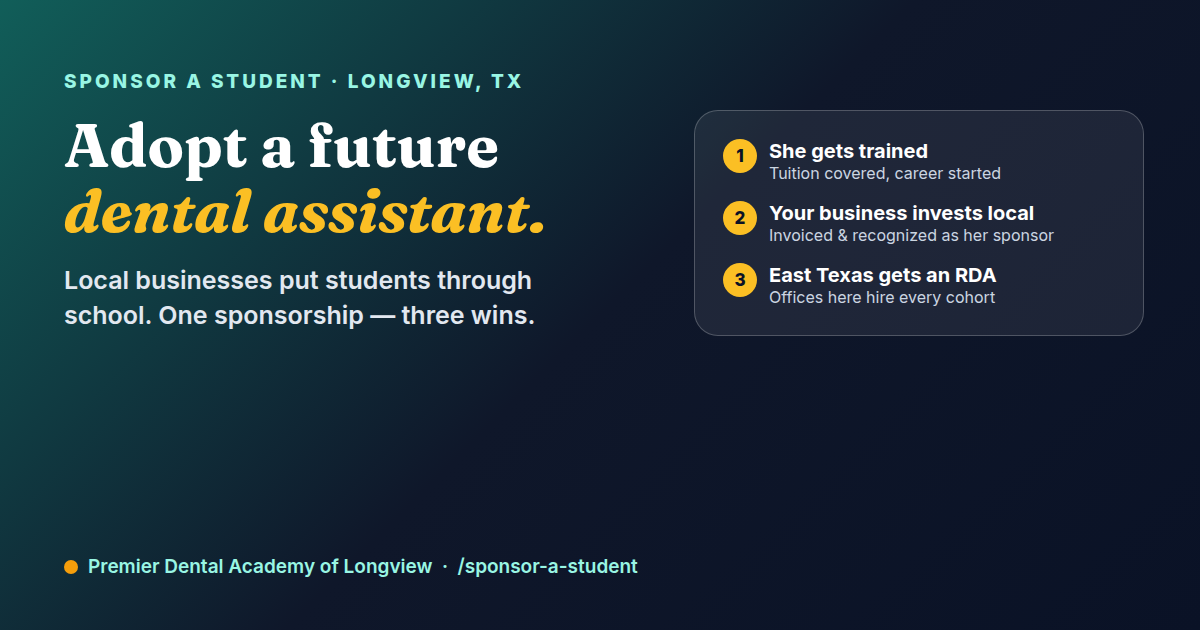
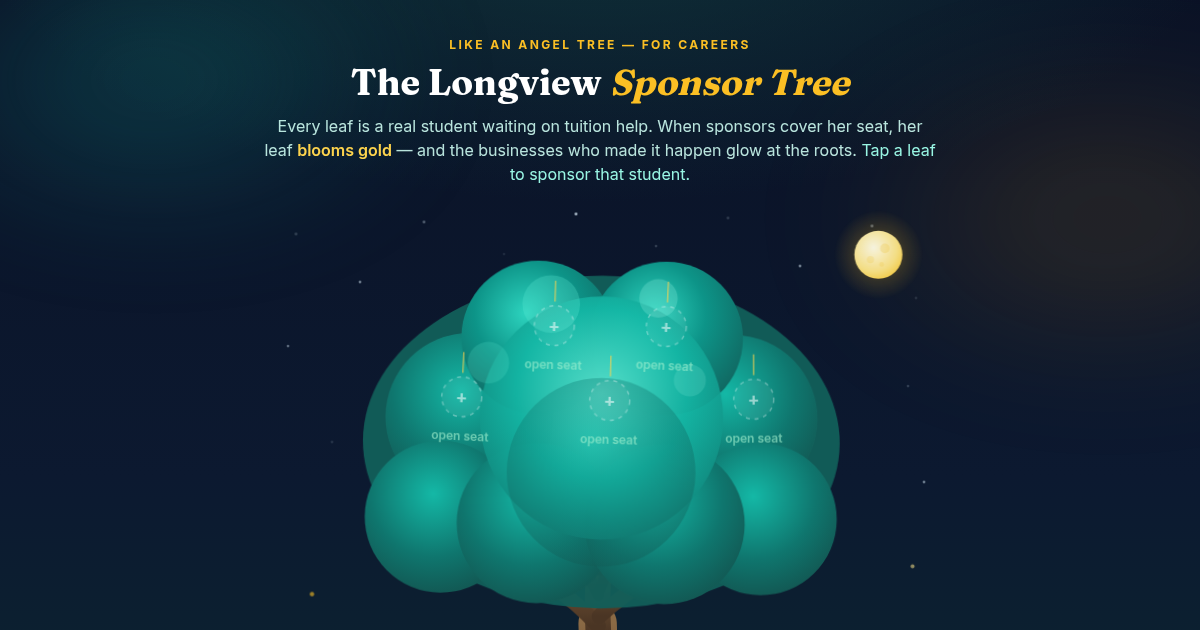
Sponsor Tree wow-pass: leaf pop-cards, ambience, lantern string, tree OG image
- Tap a leaf: sparkle burst + pop-card with her story, live progress bar,
  and a Sponsor-her button; cards place below top-row leaves so they never
  slide under the sticky nav, and clamp inside the stage on small screens.
- Scene ambience: aurora wisps, shooting stars, moon halo, grass tufts and
  ember lights at the roots, gold petals drifting off sponsored blooms.
- Businesses now dangle as glowing lanterns from a lit string (swipeable
  when there are many); dangle animates the chip, not the scroll item, to
  avoid compositing glitches.
- Stats chips count up when scrolled into view; confetti burst fires when
  an online sponsorship completes.
- OG share image replaced with a real 1200x630 render of the tree's empty
  state (open seats only - no fabricated data), so every Facebook/text
  share shows the tree itself.
- All motion respects prefers-reduced-motion.

diff --git a/sponsor-a-student.html b/sponsor-a-student.html
@@ -55,8 +55,54 @@ tailwind.config = { theme: { extend: {
   .lantern-glow{animation:pulseGlow 4s ease-in-out infinite}
   .amt-btn.active{background:#f59e0b;color:#fff;border-color:#f59e0b}
   #card-container{min-height:44px}
+
+  /* aurora wisps behind the tree */
+  .night{position:relative}
+  .night>*:not(.aurora){position:relative;z-index:1}
+  .aurora{position:absolute;z-index:0;border-radius:9999px;filter:blur(70px);pointer-events:none;will-change:transform}
+  .aurora.a1{width:560px;height:280px;left:-130px;top:-50px;opacity:.32;
+    background:radial-gradient(closest-side,#14b8a6,transparent);animation:auroraDrift 19s ease-in-out infinite alternate}
+  .aurora.a2{width:520px;height:250px;right:-110px;top:80px;opacity:.2;
+    background:radial-gradient(closest-side,#f59e0b,transparent);animation:auroraDrift 24s ease-in-out infinite alternate-reverse}
+  @keyframes auroraDrift{0%{transform:translate(0,0) scale(1)}100%{transform:translate(60px,26px) scale(1.12)}}
+
+  /* shooting stars */
+  .shoot{opacity:0;animation:shoot 9s linear infinite}
+  .shoot.sh2{animation-delay:4.7s;animation-duration:12s}
+  @keyframes shoot{0%,5%{opacity:0;transform:translate(0,0)}6.5%{opacity:1}12%{opacity:0;transform:translate(-360px,160px)}100%{opacity:0;transform:translate(-360px,160px)}}
+
+  /* gold petals drifting off sponsored blooms */
+  .petal{transform-box:fill-box;transform-origin:center;animation:petalFall 6.5s ease-in infinite}
+  @keyframes petalFall{0%{opacity:0;transform:translate(0,0) rotate(0deg)}10%{opacity:.9}100%{opacity:0;transform:translate(-26px,140px) rotate(140deg)}}
+
+  /* sparkle burst on leaf tap */
+  .sparkle{transition:transform .55s cubic-bezier(.2,.7,.3,1),opacity .55s ease-out}
+
+  /* leaf pop-card */
+  #leaf-tip{position:absolute;z-index:30;width:min(260px,72vw);transform:translate(-50%,-100%);
+    background:rgba(10,18,38,.92);border:1px solid rgba(251,191,36,.5);border-radius:16px;
+    box-shadow:0 12px 40px rgba(0,0,0,.5),0 0 30px rgba(251,191,36,.12);backdrop-filter:blur(6px)}
+  #leaf-tip::after{content:"";position:absolute;left:50%;bottom:-8px;width:14px;height:14px;transform:translateX(-50%) rotate(45deg);
+    background:rgba(10,18,38,.92);border-right:1px solid rgba(251,191,36,.5);border-bottom:1px solid rgba(251,191,36,.5)}
+  #leaf-tip.tip-below{transform:translate(-50%,0)}
+  #leaf-tip.tip-below::after{bottom:auto;top:-8px;transform:translateX(-50%) rotate(225deg)}
+  .lantern-string::-webkit-scrollbar{display:none}
+
+  /* businesses hang from a glowing string */
+  .lantern-string{position:relative;display:flex;gap:1rem;overflow-x:auto;padding:12px 8px 10px;justify-content:safe center;scrollbar-width:none}
+  .lantern-string::before{content:"";position:absolute;top:8px;left:0;right:0;height:2px;border-radius:2px;
+    background:linear-gradient(90deg,transparent,rgba(251,191,36,.55) 15%,rgba(251,191,36,.55) 85%,transparent)}
+  .lantern-item{position:relative;flex:0 0 auto;margin-top:16px}
+  .lantern-item::before{content:"";position:absolute;top:-15px;left:50%;width:2px;height:15px;background:rgba(251,191,36,.5)}
+  .lantern-item>.lantern{transform-origin:top center;
+    animation:dangle 6s ease-in-out infinite, pulseGlow 4s ease-in-out infinite;animation-delay:inherit}
+
+  /* confetti on a completed sponsorship */
+  .confetti{position:fixed;top:-14px;z-index:100;pointer-events:none;border-radius:2px;animation:confettiFall linear forwards}
+  @keyframes confettiFall{to{transform:translateY(112vh) rotate(760deg)}}
+
   @media (prefers-reduced-motion: reduce){
-    .star,.orn-anim,#canopy,.ff,.glow-pulse,.lantern-glow{animation:none !important}
+    .star,.orn-anim,#canopy,.ff,.glow-pulse,.lantern-glow,.aurora,.shoot,.petal,.lantern-item,.lantern-item>.lantern,.confetti{animation:none !important}
   }
 </style>
 <script src="https://cdn.jsdelivr.net/npm/@supabase/supabase-js@2"></script>
@@ -88,6 +134,8 @@ tailwind.config = { theme: { extend: {
   <!-- ══════════════════════ THE SPONSOR TREE ══════════════════════ -->
   <section id="tree" class="scroll-mt-6" aria-labelledby="tree-h">
     <div class="night rounded-3xl overflow-hidden shadow-2xl ring-1 ring-teal-800/40">
+      <div class="aurora a1" aria-hidden="true"></div>
+      <div class="aurora a2" aria-hidden="true"></div>
       <div class="pt-10 sm:pt-12 px-4 text-center">
         <p class="text-[12px] uppercase tracking-[0.2em] text-amber-400 font-bold">Like an angel tree — for careers</p>
         <h2 id="tree-h" class="display text-3xl sm:text-4xl font-bold text-white mt-2">The Longview <span class="text-amber-400 italic">Sponsor Tree</span></h2>
@@ -98,7 +146,8 @@ tailwind.config = { theme: { extend: {
       <div id="tree-stats" class="hidden flex-wrap justify-center gap-2.5 sm:gap-3 mt-6 px-4"></div>
 
       <!-- The tree -->
-      <div class="max-w-3xl mx-auto px-2 sm:px-6 -mt-2">
+      <div id="tree-stage" class="max-w-3xl mx-auto px-2 sm:px-6 -mt-2 relative">
+        <div id="leaf-tip" class="hidden p-4 text-left" role="dialog" aria-label="Student details"></div>
         <svg id="tree-svg" viewBox="0 0 900 770" role="img" aria-label="The Longview Sponsor Tree — each ornament is a student waiting for a sponsor; gold blooms are fully sponsored students" class="w-full h-auto select-none">
           <defs>
             <radialGradient id="g-canopy-a" cx="42%" cy="34%" r="75%">
@@ -140,6 +189,16 @@ tailwind.config = { theme: { extend: {
             <circle class="star s2" cx="60"  cy="210" r="1.2"/><circle class="star s3" cx="835" cy="260" r="1.2"/>
             <circle class="star"    cx="115" cy="330" r="1.4"/><circle class="star s2" cx="855" cy="380" r="1.3"/>
           </g>
+          <!-- shooting stars -->
+          <g transform="translate(760,52)"><g class="shoot">
+            <line x1="6" y1="-3" x2="82" y2="-36" stroke="#e0f2fe" stroke-width="2" stroke-linecap="round" opacity=".7"/>
+            <circle r="2.6" fill="#ffffff"/>
+          </g></g>
+          <g transform="translate(420,36)"><g class="shoot sh2">
+            <line x1="6" y1="-3" x2="70" y2="-30" stroke="#e0f2fe" stroke-width="1.8" stroke-linecap="round" opacity=".6"/>
+            <circle r="2.2" fill="#ffffff"/>
+          </g></g>
+
           <!-- moon with halo -->
           <circle cx="798" cy="96" r="56" fill="url(#g-glow)" opacity=".5"/>
           <circle cx="798" cy="96" r="30" fill="url(#g-moon)" opacity=".95"/>
@@ -164,6 +223,20 @@ tailwind.config = { theme: { extend: {
             <path d="M589,465 C612,456 630,449 650,443" stroke-width="11"/>
           </g>
           <path d="M408,726 C424,704 476,704 492,726 Z" fill="#4a3524"/>
+
+          <!-- grass tufts + ember lights at the roots -->
+          <g stroke="#166534" stroke-width="3.5" stroke-linecap="round" fill="none" opacity=".85">
+            <path d="M148,714 C150,702 148,695 143,688"/><path d="M156,715 C158,704 159,697 163,691"/>
+            <path d="M262,720 C263,709 261,702 256,696"/><path d="M270,721 C272,711 274,705 278,699"/>
+            <path d="M622,721 C623,710 621,703 616,697"/><path d="M630,722 C632,712 634,706 638,700"/>
+            <path d="M742,714 C744,703 742,696 737,690"/><path d="M750,715 C752,705 754,699 758,693"/>
+            <path d="M368,724 C369,714 367,708 363,703"/><path d="M540,724 C541,714 543,708 547,703"/>
+          </g>
+          <g fill="#fbbf24">
+            <circle class="star"    cx="176" cy="708" r="2.6"/><circle class="star s2" cx="292" cy="714" r="2.2"/>
+            <circle class="star s3" cx="600" cy="715" r="2.6"/><circle class="star"    cx="726" cy="708" r="2.2"/>
+            <circle class="star s2" cx="392" cy="719" r="2"/><circle class="star s3" cx="516" cy="719" r="2"/>
+          </g>
 
           <!-- canopy: one unified silhouette, then depth clusters -->
           <g id="canopy">
@@ -717,19 +790,25 @@ tailwind.config = { theme: { extend: {
           grp.appendChild(sub2);
         }
 
-        (function (prof, isSponsored) {
-          function go() {
+        (function (prof, isSponsored, px, py) {
+          function go(ev) {
+            if (ev) ev.stopPropagation();
             track('sponsor_leaf_click', { student: firstName(prof.display_name) });
-            if (isSponsored) {
-              var card = document.querySelector('[data-profile-card="' + prof.id + '"]');
-              (card || document.getElementById('students-waiting')).scrollIntoView({ behavior: 'smooth', block: 'center' });
-            } else {
-              selectStudent(prof.id);
-            }
+            sparkleBurst(px, py);
+            showLeafTip(prof, isSponsored, px, py);
           }
           grp.addEventListener('click', go);
-          grp.addEventListener('keydown', function (ev) { if (ev.key === 'Enter' || ev.key === ' ') { ev.preventDefault(); go(); } });
-        })(p, sponsored);
+          grp.addEventListener('keydown', function (ev) { if (ev.key === 'Enter' || ev.key === ' ') { ev.preventDefault(); go(ev); } });
+        })(p, sponsored, pos[0], pos[1]);
+
+        // Sponsored blooms shed slow gold petals.
+        if (sponsored) {
+          for (var pi = 0; pi < 3; pi++) {
+            var petal = svgEl('ellipse', { cx: (pi - 1) * 9, cy: 16, rx: 4.5, ry: 3, fill: '#fbbf24', 'class': 'petal' });
+            petal.style.animationDelay = (pi * 2.1 + (i % 3)) + 's';
+            anim.appendChild(petal);
+          }
+        }
 
         anim.appendChild(grp);
       } else {
@@ -755,33 +834,148 @@ tailwind.config = { theme: { extend: {
     }
   }
 
+  // Stats chips count up from zero the first time they scroll into view.
   function renderStats(stats) {
     var host = document.getElementById('tree-stats');
     if (!host || !stats) return;
     var chips = [];
-    if (stats.raised_cents > 0) chips.push(['💛', money(stats.raised_cents), 'raised for tuition']);
-    if (stats.sponsored > 0) chips.push(['🌟', stats.sponsored, stats.sponsored === 1 ? 'student sponsored' : 'students sponsored']);
-    if (stats.waiting > 0) chips.push(['🌱', stats.waiting, stats.waiting === 1 ? 'student waiting' : 'students waiting']);
-    if (stats.sponsor_count > 0) chips.push(['🏮', stats.sponsor_count, stats.sponsor_count === 1 ? 'sponsor' : 'sponsors']);
+    if (stats.raised_cents > 0) chips.push(['💛', Math.round(stats.raised_cents / 100), '$', 'raised for tuition']);
+    if (stats.sponsored > 0) chips.push(['🌟', stats.sponsored, '', stats.sponsored === 1 ? 'student sponsored' : 'students sponsored']);
+    if (stats.waiting > 0) chips.push(['🌱', stats.waiting, '', stats.waiting === 1 ? 'student waiting' : 'students waiting']);
+    if (stats.sponsor_count > 0) chips.push(['🏮', stats.sponsor_count, '', stats.sponsor_count === 1 ? 'sponsor' : 'sponsors']);
     if (!chips.length) return;
     host.innerHTML = chips.map(function (c) {
       return '<div class="bg-white/10 border border-white/15 rounded-full px-4 py-2 text-sm text-white font-semibold backdrop-blur-sm">'
-        + c[0] + ' <span class="text-amber-300 font-extrabold">' + esc(c[1]) + '</span> <span class="text-teal-100 font-medium">' + esc(c[2]) + '</span></div>';
+        + c[0] + ' <span class="text-amber-300 font-extrabold stat-num" data-n="' + c[1] + '" data-p="' + c[2] + '">' + esc(c[2] + Number(c[1]).toLocaleString('en-US')) + '</span> <span class="text-teal-100 font-medium">' + esc(c[3]) + '</span></div>';
     }).join('');
     host.classList.remove('hidden');
     host.classList.add('flex');
+    try {
+      if (window.matchMedia('(prefers-reduced-motion: reduce)').matches) return;
+      var io = new IntersectionObserver(function (entries) {
+        if (!entries.some(function (en) { return en.isIntersecting; })) return;
+        io.disconnect();
+        host.querySelectorAll('.stat-num').forEach(function (el) {
+          var target = parseInt(el.getAttribute('data-n'), 10) || 0;
+          var prefix = el.getAttribute('data-p') || '';
+          var t0 = performance.now();
+          (function tick(t) {
+            var k = Math.min(1, (t - t0) / 1200);
+            k = 1 - Math.pow(1 - k, 3); // ease-out
+            el.textContent = prefix + Math.round(target * k).toLocaleString('en-US');
+            if (k < 1) requestAnimationFrame(tick);
+          })(t0);
+        });
+      }, { threshold: 0.4 });
+      io.observe(host);
+    } catch (e) {}
   }
 
+  // Businesses hang as lanterns from a glowing string.
   function renderLanterns(rows) {
     var host = document.getElementById('lantern-row');
     var empty = document.getElementById('lantern-empty');
     if (!host || !rows || !rows.length) return;
-    host.innerHTML = rows.slice(0, 24).map(function (r) {
-      return '<div class="lantern lantern-glow rounded-xl px-4 py-2 text-amber-200 text-sm font-bold">🏮 ' + esc(r.recognition_name) + '</div>';
+    host.className = 'lantern-string mt-3';
+    host.innerHTML = rows.slice(0, 24).map(function (r, i) {
+      return '<div class="lantern-item" style="animation-delay:' + ((i % 5) * 0.9) + 's">'
+        + '<div class="lantern lantern-glow rounded-xl px-4 py-2 text-amber-200 text-sm font-bold whitespace-nowrap">🏮 ' + esc(r.recognition_name) + '</div>'
+        + '</div>';
     }).join('');
     host.classList.remove('hidden');
-    host.classList.add('flex');
     if (empty) empty.textContent = 'These businesses put real neighbors through school. Yours belongs up here too.';
+  }
+
+  // ── Leaf pop-card + sparkle burst ──
+  function stagePoint(x, y) {
+    // viewBox coords → pixel offsets inside #tree-stage
+    var svg = document.getElementById('tree-svg');
+    var stage = document.getElementById('tree-stage');
+    var sr = svg.getBoundingClientRect(), tr = stage.getBoundingClientRect();
+    return {
+      left: (sr.left - tr.left) + (x / 900) * sr.width,
+      top: (sr.top - tr.top) + (y / 770) * sr.height,
+    };
+  }
+
+  function sparkleBurst(x, y) {
+    try {
+      if (window.matchMedia('(prefers-reduced-motion: reduce)').matches) return;
+      var orn = document.getElementById('ornaments');
+      for (var k = 0; k < 8; k++) {
+        var s = svgEl('circle', { cx: x, cy: y, r: 3, fill: k % 2 ? '#fde68a' : '#5eead4', 'class': 'sparkle', opacity: 1 });
+        orn.appendChild(s);
+        (function (el, ang) {
+          requestAnimationFrame(function () {
+            requestAnimationFrame(function () {
+              el.style.transform = 'translate(' + Math.cos(ang) * 52 + 'px,' + Math.sin(ang) * 52 + 'px)';
+              el.style.opacity = '0';
+            });
+          });
+          setTimeout(function () { el.remove(); }, 650);
+        })(s, (Math.PI * 2 * k) / 8 + 0.4);
+      }
+    } catch (e) {}
+  }
+
+  function showLeafTip(prof, isSponsored, x, y) {
+    var tip = document.getElementById('leaf-tip');
+    if (!tip) return;
+    var pct = prof.goal_cents > 0 ? Math.min(100, Math.round((prof.raised_cents / prof.goal_cents) * 100)) : 0;
+    tip.innerHTML =
+      '<div class="flex items-center gap-2">'
+      + '<div class="w-9 h-9 rounded-full ' + (isSponsored ? 'bg-gradient-to-br from-amber-400 to-amber-600' : 'bg-gradient-to-br from-teal-500 to-cyan-600') + ' text-white font-bold grid place-items-center shrink-0">' + esc((prof.display_name || '?')[0]) + '</div>'
+      + '<div class="min-w-0"><div class="font-bold text-white truncate">' + esc(prof.display_name) + '</div>'
+      + (prof.city ? '<div class="text-[11px] text-teal-200">' + esc(prof.city) + ', TX</div>' : '') + '</div>'
+      + '<button id="leaf-tip-x" class="ml-auto text-slate-400 hover:text-white text-lg leading-none px-1" aria-label="Close">✕</button></div>'
+      + '<p class="text-[12.5px] text-slate-200 mt-2 leading-snug">' + esc(String(prof.story || '').slice(0, 140)) + (String(prof.story || '').length > 140 ? '…' : '') + '</p>'
+      + (isSponsored
+        ? '<p class="text-amber-300 text-xs font-bold mt-2.5">🌟 Fully sponsored — she’s headed to class!</p>'
+        : '<div class="mt-2.5"><div class="flex justify-between text-[10.5px] font-bold text-teal-100 mb-1"><span>' + money(prof.raised_cents) + ' raised</span><span>' + pct + '% of ' + money(prof.goal_cents) + '</span></div>'
+          + '<div class="h-1.5 bg-white/10 rounded-full overflow-hidden"><div class="h-full bg-gradient-to-r from-amber-400 to-amber-500" style="width:' + pct + '%"></div></div>'
+          + '<button id="leaf-tip-go" class="mt-3 w-full bg-amber-500 hover:bg-amber-600 text-white text-sm font-bold py-2 rounded-full">💛 Sponsor ' + esc(firstName(prof.display_name)) + ' →</button></div>');
+    // Top-row leaves show the card BELOW the leaf so it never leaves the scene
+    // (or slides under the sticky site nav); everyone else gets it above.
+    var below = y < 340;
+    tip.classList.toggle('tip-below', below);
+    var pt = stagePoint(x, below ? y + 78 : y - 44);
+    var stage = document.getElementById('tree-stage');
+    var half = Math.min(130, (stage.clientWidth / 2) - 8);
+    tip.style.left = Math.max(half, Math.min(stage.clientWidth - half, pt.left)) + 'px';
+    tip.style.top = Math.max(pt.top, 6) + 'px';
+    tip.classList.remove('hidden');
+    var xBtn = document.getElementById('leaf-tip-x');
+    if (xBtn) xBtn.onclick = function (e) { e.stopPropagation(); tip.classList.add('hidden'); };
+    var goBtn = document.getElementById('leaf-tip-go');
+    if (goBtn) goBtn.onclick = function (e) { e.stopPropagation(); tip.classList.add('hidden'); selectStudent(prof.id); };
+  }
+  document.addEventListener('click', function (e) {
+    var tip = document.getElementById('leaf-tip');
+    if (tip && !tip.classList.contains('hidden') && !tip.contains(e.target) && !e.target.closest('.orn')) tip.classList.add('hidden');
+  });
+  document.addEventListener('keydown', function (e) {
+    if (e.key === 'Escape') { var tip = document.getElementById('leaf-tip'); if (tip) tip.classList.add('hidden'); }
+  });
+
+  // ── Confetti when a sponsorship completes ──
+  function confetti() {
+    try {
+      if (window.matchMedia('(prefers-reduced-motion: reduce)').matches) return;
+      var colors = ['#fbbf24', '#f59e0b', '#2dd4bf', '#5eead4', '#ffffff', '#fde68a'];
+      for (var k = 0; k < 80; k++) {
+        var d = document.createElement('div');
+        d.className = 'confetti';
+        var size = 5 + Math.random() * 6;
+        d.style.left = (Math.random() * 100) + 'vw';
+        d.style.width = size + 'px';
+        d.style.height = (size * 0.6) + 'px';
+        d.style.background = colors[k % colors.length];
+        d.style.animationDuration = (2.2 + Math.random() * 1.6) + 's';
+        d.style.animationDelay = (Math.random() * 0.6) + 's';
+        document.body.appendChild(d);
+        setTimeout(function (el) { return function () { el.remove(); }; }(d), 4600);
+      }
+    } catch (e) {}
   }
 
   function renderCards() {
@@ -986,6 +1180,7 @@ tailwind.config = { theme: { extend: {
 
     if (out && out.ok) {
       track('sponsor_paid', { cents: amount, student: out.student || '' });
+      confetti();
       var f = document.getElementById('pay-form');
       f.classList.add('hidden');
       var s = document.getElementById('pay-success');

diff --git a/CHANGELOG.md b/CHANGELOG.md
@@ -1,4 +1,5 @@
 # Changelog — one line per push (newest first)
+- 2026-07-31 · Sponsor Tree wow-pass: tap a leaf → sparkle burst + pop-card (story, live progress bar, "Sponsor her →", smart above/below placement); aurora wisps + shooting stars + moon halo + grass/ember roots + gold petals falling from sponsored blooms; businesses now dangle as lanterns from a glowing string; stats chips count up on scroll; confetti burst on a completed payment; OG share image replaced with a real render of the tree (empty-state — no fabricated data) so every FB/text share shows the tree itself; all motion behind prefers-reduced-motion.
 - 2026-07-31 · THE SPONSOR TREE, fully built: /sponsor-a-student rebuilt around an animated night-sky tree (every consented student = a leaf ornament w/ live progress ring, blooms gold at goal; sponsoring businesses = opt-in lanterns at the roots; share row w/ FB/text/copy/native) + real Square online checkout (api/sponsor.js — $25-$10k, enroll.js safety rules: nonce-derived idempotency, never-error-after-charge, Resend receipt+admin alert w/ app_secrets key fallback) + /admin/sponsors console (applications → "hang her leaf" w/ enforced consent → money ledger) + migration 20260731_sponsor_tree.sql APPLIED LIVE (sponsorships table admin-only RLS, sponsor_rollup trigger — paid→raised_cents→auto approved⇄sponsored flip, verified live via aborted-txn test; public sponsor_tree_stats/sponsor_wall RPCs, advisors clean); Square location + Resend domain re-verified via connectors; visual QA via headless Chromium (desktop/mobile/empty states); docs/sponsor-tree.md runbook.
 - 2026-07-11 · Kajabi full-fidelity export prep: course_lessons.attachments (applied — per-lesson downloads, e.g. the Modern Dental Assisting 14th-ed chapter PDFs Kajabi lessons carry) + /learn renders signed-URL download buttons from the private course-assets bucket; docs/COWORK-KAJABI-COURSE-EXPORT.md — the complete Chrome/Kajabi export prompt (screenshot every lesson, copy body HTML, download every book chapter/image/file, record every video + quiz + true lesson order, deliver to course-assets/kajabi-export) + the ingest work order (order reconcile, book attachments, image rebuild to match screenshots, Kajabi wording wins, quiz verbatim, Wistia→Mux).
 - 2026-07-11 · Course depth pass (owner feedback: site lessons thinner than Kajabi): all 23 authored chapter lessons rewritten to full textbook-chapter depth (16k-27.8k chars each, ~2-3x; complete procedure sequences, materials specifics, errors+fixes, patient scripts, "on the job" sections; quizzes expanded to 10 questions), grounded in researched TSBDE standards (docs/texas-rda-standards.md: approved course+exam = radiology/infection-control/jurisprudence + BLS + trafficking-prevention course); adversarial verify pass fixed a fabricated example name, an unverified regulatory date, link targets; mirrored into rda-program (47 rows). Kajabi API probed live for the verbatim mirror — credential is scope-locked (403 on /v1/courses); unlock path documented in COWORK-REQUEST (enable API course scope or browser export, incl. true lesson ORDER capture).

diff --git a/docs/sponsor-tree.md b/docs/sponsor-tree.md
@@ -74,6 +74,23 @@ choose this themselves at checkout ("Light my lantern").
 Square location `2P2ZE3FJNEYTV` re-verified ACTIVE (credit-card capable) via
 Square API on 2026-07-31.
 
+## The wow layer (v2, same day)
+
+Tap/click any leaf → sparkle burst + a pop-card with her story, live progress
+bar and a "Sponsor her →" button (auto-places below top-row leaves so it never
+hides under the sticky nav). Ambience: aurora wisps, shooting stars, moon halo,
+grass + ember lights at the roots, gold petals drifting off sponsored blooms.
+Businesses hang as lanterns from a glowing string (horizontal swipe when there
+are many). Stats count up when scrolled into view; a confetti burst fires when
+an online payment completes. Everything is vanilla SVG/CSS/JS and disabled
+under `prefers-reduced-motion`.
+
+The page's OG share image (`assets/og-sponsor-a-student.png`) is a real
+1200×630 render of the tree's EMPTY state (open seats — no fabricated
+students/numbers), so shares on Facebook/iMessage show the tree itself. To
+refresh it later (e.g. once real leaves are up), re-run the session's headless
+capture (`shoot.js` pattern) — or screenshot the live section at 1200×630.
+
 ## Rules that must not break
 
 - **No PII on the public page, ever.** Leaves are first name + last initial,
